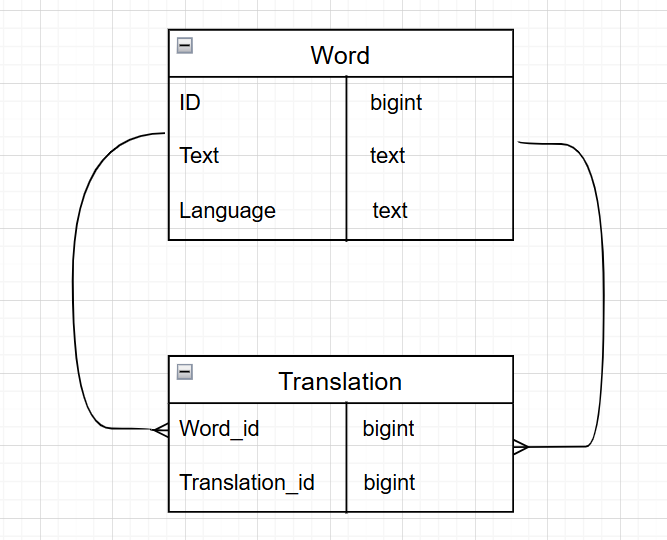
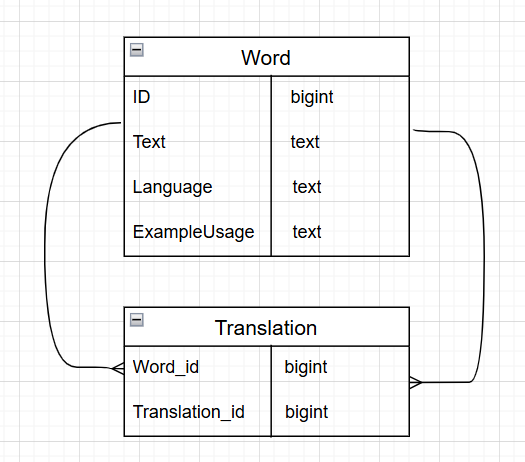
Refactor code
Made error messages more descriptive in tests, Changed handling of deletes to graceful

diff --git a/backend/tests/API_test.go b/backend/tests/API_test.go
@@ -94,8 +94,7 @@ func TestAddTranslation_DuplicateEntry(t *testing.T) {
 	assert.NoError(t, err)
 
 	_, err = r.AddTranslation(context.Background(), polishWord, "PL", englishWord, "EN")
-	assert.Error(t, err, "Expected an error for duplicate translation")
-	assert.Contains(t, err.Error(), "translation already exists")
+	assert.NoError(t, err, "Not expecting an error for duplicate translation")
 }
 
 func TestAddTranslation_Concurrent(t *testing.T) {
@@ -121,7 +120,7 @@ func TestAddTranslation_Concurrent(t *testing.T) {
 }
 
 func TestAddTranslation_ConcurrencyWithDuplicate(t *testing.T) {
-	_, r := setupTestMutation(t)
+	db, r := setupTestMutation(t)
 
 	englishWord := "hello"
 	polishWord := "cześć"
@@ -133,7 +132,7 @@ func TestAddTranslation_ConcurrencyWithDuplicate(t *testing.T) {
 	for i := 0; i < 10; i++ {
 		go func() {
 			_, err := r.AddTranslation(context.Background(), polishWord, "PL", englishWord, "EN")
-			assert.Error(t, err, "Expected error for duplicate translation")
+			assert.NoError(t, err, "Not expecting an error for duplicate translation")
 			done <- true
 		}()
 	}
@@ -141,6 +140,10 @@ func TestAddTranslation_ConcurrencyWithDuplicate(t *testing.T) {
 	for i := 0; i < 10; i++ {
 		<-done
 	}
+
+	var count int64
+	db.Find(&model.Translation{}).Count(&count)
+	assert.Equal(t, int64(1), count, "One ranslation should be stored in the database")
 }
 
 func TestAddWord_NewWord(t *testing.T) {
@@ -271,8 +274,8 @@ func TestDeleteWord_NonExistingWord(t *testing.T) {
 
 	deletedWord, err := r.DeleteWord(context.Background(), word, language)
 
-	require.NoError(t, err, "Expected error for non-existing word")
-	assert.Nil(t, deletedWord, "Deleted word should be nil for non-existing word")
+	require.NoError(t, err, "Not expecting error for non-existing word")
+	assert.Equal(t, 0, deletedWord.ID, "Deleted word should be empty Word for non-existing word")
 }
 
 func TestDeleteWord_TranslationsAlsoDeleted(t *testing.T) {
@@ -321,7 +324,7 @@ func TestUpdateWord_WordNotFound(t *testing.T) {
 	updatedExampleUsage := "updated usage"
 
 	word, err := r.UpdateWord(context.Background(), sourceWord, sourceLanguage, updatedWord, updatedExampleUsage)
-	assert.Error(t, err)
+	assert.Error(t, err, "Raising error for updating non existing word")
 	assert.Nil(t, word)
 }
 
@@ -334,7 +337,7 @@ func TestUpdateWord_EmptyWord(t *testing.T) {
 	updatedExampleUsage := "updated usage"
 
 	word, err := r.UpdateWord(context.Background(), sourceWord, sourceLanguage, updatedWord, updatedExampleUsage)
-	assert.Error(t, err)
+	assert.Error(t, err, "Raising error for updating empty word")
 	assert.Nil(t, word)
 }
 
@@ -347,7 +350,7 @@ func TestUpdateWord_EmptyLanguage(t *testing.T) {
 	updatedExampleUsage := "updated usage"
 
 	word, err := r.UpdateWord(context.Background(), sourceWord, sourceLanguage, updatedWord, updatedExampleUsage)
-	assert.Error(t, err)
+	assert.Error(t, err, "Raising error for updating empty word")
 	assert.Nil(t, word)
 }
 
@@ -355,7 +358,7 @@ func TestTranslations_NoWord(t *testing.T) {
 	_, r := setupTestQuery(t)
 
 	words, err := r.GetTranslations(context.Background(), "nonexistent", "PL")
-	assert.Error(t, err)
+	assert.Error(t, err, "Error for translation with no existing word")
 	assert.Nil(t, words)
 }
 
@@ -378,8 +381,8 @@ func TestTranslations_NoTranslation(t *testing.T) {
 
 	_, _ = rm.AddWord(context.Background(), "run", "EN", "")
 	words, err := r.GetTranslations(context.Background(), "run", "EN")
-	assert.Error(t, err)
-	assert.Nil(t, words)
+	assert.NoError(t, err, "No error for no translation")
+	assert.Equal(t, 0, len(words))
 }
 
 func TestDeleteTranslationPLtoEN_NormalCase(t *testing.T) {
@@ -403,8 +406,9 @@ func TestDeleteTranslationPLtoEN_NoWords(t *testing.T) {
 	polishWord := "cześć"
 
 	translation, err := r.DeleteTranslation(context.Background(), polishWord, "PL", englishWord, "EN")
-	assert.Error(t, err)
-	assert.Nil(t, translation)
+	assert.NoError(t, err, "Graceful deletion")
+	assert.Equal(t, 0, translation.TranslationID)
+	assert.Equal(t, 0, translation.WordID)
 }
 
 func TestDeleteTranslationPLtoEN_SecondWordNotFound(t *testing.T) {
@@ -414,8 +418,9 @@ func TestDeleteTranslationPLtoEN_SecondWordNotFound(t *testing.T) {
 
 	_, _ = r.AddWord(context.Background(), polishWord, "PL", "")
 	translation, err := r.DeleteTranslation(context.Background(), polishWord, "PL", englishWord, "EN")
-	assert.Error(t, err)
-	assert.Nil(t, translation)
+	assert.NoError(t, err, "Graceful deletion")
+	assert.Equal(t, 0, translation.TranslationID)
+	assert.Equal(t, 0, translation.WordID)
 }
 
 func TestDeleteTranslationPLtoEN_NoTranslation(t *testing.T) {
@@ -426,8 +431,9 @@ func TestDeleteTranslationPLtoEN_NoTranslation(t *testing.T) {
 	_, _ = r.AddWord(context.Background(), polishWord, "PL", "")
 	_, _ = r.AddWord(context.Background(), englishWord, "EN", "")
 	translation, err := r.DeleteTranslation(context.Background(), polishWord, "PL", englishWord, "EN")
-	assert.NoError(t, err)
-	assert.Nil(t, translation)
+	assert.NoError(t, err, "Graceful deletion")
+	assert.Equal(t, 0, translation.TranslationID)
+	assert.Equal(t, 0, translation.WordID)
 }
 
 func TestDeleteWord_Concurrent(t *testing.T) {
@@ -442,7 +448,7 @@ func TestDeleteWord_Concurrent(t *testing.T) {
 	for i := 0; i < 10; i++ {
 		go func() {
 			_, err := r.DeleteWord(context.Background(), word, language)
-			assert.NoError(t, err)
+			assert.NoError(t, err, "No error expected when deleting word existing or non existing")
 			done <- true
 		}()
 	}
@@ -467,7 +473,7 @@ func TestDeleteTranslation_Concurrent(t *testing.T) {
 	for i := 0; i < 10; i++ {
 		go func() {
 			_, err := r.DeleteTranslation(context.Background(), polishWord, "PL", englishWord, "EN")
-			assert.NoError(t, err)
+			assert.NoError(t, err, "Graceful deletion")
 			done <- true
 		}()
 	}

diff --git a/backend/graph/schema.resolvers.go b/backend/graph/schema.resolvers.go
@@ -18,35 +18,30 @@ import (
 func (r *mutationResolver) AddTranslation(ctx context.Context, sourceText string, sourceTextLanguage string, translatedText string, translatedTextLanguage string) (*model.Translation, error) {
 	var sourceWord model.Word
 	var translatedWord model.Word
-	var existingTranslation model.Translation
 
 	tx := r.DB.Begin()
 	defer func() {
 		tx.Rollback()
 	}()
-
+	if sourceText == "" || sourceTextLanguage == "" || translatedText == "" || translatedTextLanguage == "" {
+		return nil, fmt.Errorf("word and language must not be empty")
+	}
 	err := tx.FirstOrCreate(&sourceWord, model.Word{Text: sourceText, Language: sourceTextLanguage}).Error
 	if err != nil {
-		return nil, fmt.Errorf("an error has occured while inserting source word")
+		return nil, fmt.Errorf("an error has occured while inserting source word: %w", err)
 	}
 	err = tx.FirstOrCreate(&translatedWord, model.Word{Text: translatedText, Language: translatedTextLanguage}).Error
 	if err != nil {
-		return nil, fmt.Errorf("an error has occured while inserting translated word")
+		return nil, fmt.Errorf("an error has occured while inserting translated word: %w", err)
 	}
 
 	sortedTranslation := model.Translation{WordID: translatedWord.ID, TranslationID: sourceWord.ID}
 	sortedTranslation.SortTranslation()
 
-	err = tx.Where("word_id = ? AND translation_id = ?", sortedTranslation.WordID, sortedTranslation.TranslationID).First(&existingTranslation).Error
-	if err == nil {
-		return nil, fmt.Errorf("translation already exists")
-	}
-
-	err = tx.Create(&sortedTranslation).Error
+	err = tx.FirstOrCreate(&sortedTranslation, sortedTranslation).Error
 	if err != nil {
 		return nil, fmt.Errorf("database error while inserting translation: %w", err)
 	}
-	fmt.Println(sortedTranslation)
 	tx.Commit()
 
 	return &sortedTranslation, nil
@@ -80,7 +75,7 @@ func (r *mutationResolver) DeleteWord(ctx context.Context, text string, language
 	}()
 	err := tx.Where("text = ? and language = ?", text, language).First(&deletedWord).Error
 	if errors.Is(err, gorm.ErrRecordNotFound) {
-		return nil, nil
+		return &model.Word{}, nil
 	} else if err != nil {
 		return nil, fmt.Errorf("database error while finding word: %w", err)
 	}
@@ -106,7 +101,7 @@ func (r *mutationResolver) UpdateWord(ctx context.Context, sourceText string, so
 
 	err := tx.Where("text = ? and language = ?", sourceText, sourceLanguage).First(&word).Error
 	if err != nil {
-		return nil, fmt.Errorf("word is missing in database")
+		return nil, fmt.Errorf("word is missing in database: %w", err)
 	}
 
 	word.Text = updatedText
@@ -123,33 +118,31 @@ func (r *mutationResolver) UpdateWord(ctx context.Context, sourceText string, so
 // DeleteTranslation is the resolver for the deleteTranslation field.
 func (r *mutationResolver) DeleteTranslation(ctx context.Context, sourceText string, sourceTextLanguage string, translatedText string, translatedTextLanguage string) (*model.Translation, error) {
 	var sourceWord, translatedWord model.Word
+	var resultTranslation model.Translation
 
 	tx := r.DB.Begin()
 	defer func() { tx.Rollback() }()
 
 	err := tx.First(&sourceWord, model.Word{Text: sourceText, Language: sourceTextLanguage}).Error
 	if err != nil {
-		return nil, fmt.Errorf("source word not found in database")
+		return &model.Translation{}, nil
 	}
 
 	err = tx.First(&translatedWord, model.Word{Text: translatedText, Language: translatedTextLanguage}).Error
 	if err != nil {
-		return nil, fmt.Errorf("translated word not found in database")
+		return &model.Translation{}, nil
 	}
 
 	sortedTranslation := model.Translation{WordID: sourceWord.ID, TranslationID: translatedWord.ID}
 	sortedTranslation.SortTranslation()
 
-	result := tx.Where("word_id = ? AND translation_id = ?", sortedTranslation.WordID, sortedTranslation.TranslationID).Delete(&sortedTranslation)
+	result := tx.Where("word_id = ? AND translation_id = ?", sortedTranslation.WordID, sortedTranslation.TranslationID).Delete(&resultTranslation)
 	if result.Error != nil {
 		return nil, fmt.Errorf("database error while deleting translation: %w", result.Error)
 	}
-	if result.RowsAffected == 0 {
-		return nil, nil
-	}
 
 	tx.Commit()
-	return &sortedTranslation, nil
+	return &resultTranslation, nil
 }
 
 // GetTranslations is the resolver for the getTranslations field.
@@ -166,12 +159,12 @@ func (r *queryResolver) GetTranslations(ctx context.Context, textToTranslate str
 
 	err := tx.Where("text = ? and language = ?", textToTranslate, language).First(&word).Error
 	if err != nil {
-		return nil, fmt.Errorf("give word is not in database")
+		return nil, fmt.Errorf("give word is not in database: %w", err)
 	}
 
 	err = tx.Where("translation_id = ? or word_id = ?", word.ID, word.ID).Find(&translations).Error
-	if err != nil || len(translations) == 0 {
-		return nil, fmt.Errorf("no translations of given word were found")
+	if err != nil {
+		return nil, fmt.Errorf("no translations of given word were found: %w", err)
 	}
 
 	for _, t := range translations {

diff --git a/README.md b/README.md
@@ -3,9 +3,14 @@
 ## How to run project?
 
 Simply use
-
 ``docker compose up ``
 
+## How to run test?
+
+Use
+``docker compose -f .\docker-compose-tests.yml up --build``
+to build database for tests, then go to backend/tests and run 
+``go test``
 
 ## Database models
  I chose to implement translations database as a single table Word
@@ -18,3 +23,79 @@ Later I further optimized it to two tables:
 - Translation table - stores translations between words
 
 ![second_er_model.png](project_info/second_er_model.png)
+
+
+## Example queries
+
+``
+mutation {
+  addTranslation(
+    sourceText: "run"
+    sourceTextLanguage: "EN"
+    translatedText: "truchtać"
+    translatedTextLanguage: "PL"
+  ) {
+    wordID
+    translationID
+  }
+}
+``
+
+Adds a translation, creates words if not in database, just returns translation if already exists
+
+---
+``
+mutation {
+	addWord(text: "run", language: "EN", exampleUsage: ""){
+    text
+  }
+}
+``
+
+Adds word, text and language must not be empty, throws error when same word with different exampleUsage is added
+
+---
+``
+mutation {
+	deleteWord(text: "run", language: "EN"){
+    text
+  }
+}
+``
+
+Deletes word, and associated translations, returns empty Word if theres no record to delete
+
+---
+``
+mutation {
+	updateWord(sourceText: "biegać", sourceLanguage: "PL", updatedText: "biegać", updatedExampleUsage: ""){
+    text
+  }
+}
+``
+
+Updates word, texts and language must not be null, throws error if word is not found in database
+
+
+---
+``
+mutation {
+	deleteTranslation(sourceText: "biegać", sourceTextLanguage: "PL", translatedText: "run", translatedTextLanguage: "EN"){
+    translationID
+  }
+}
+``
+
+Deletes single translation, return empty translation if theres not corresponding record
+
+---
+``
+query {
+  getTranslations(textToTranslate: "truchtać", language: "PL"){
+    text
+  }
+}
+``
+
+Returns translations of given word, empty list if no translations
+
